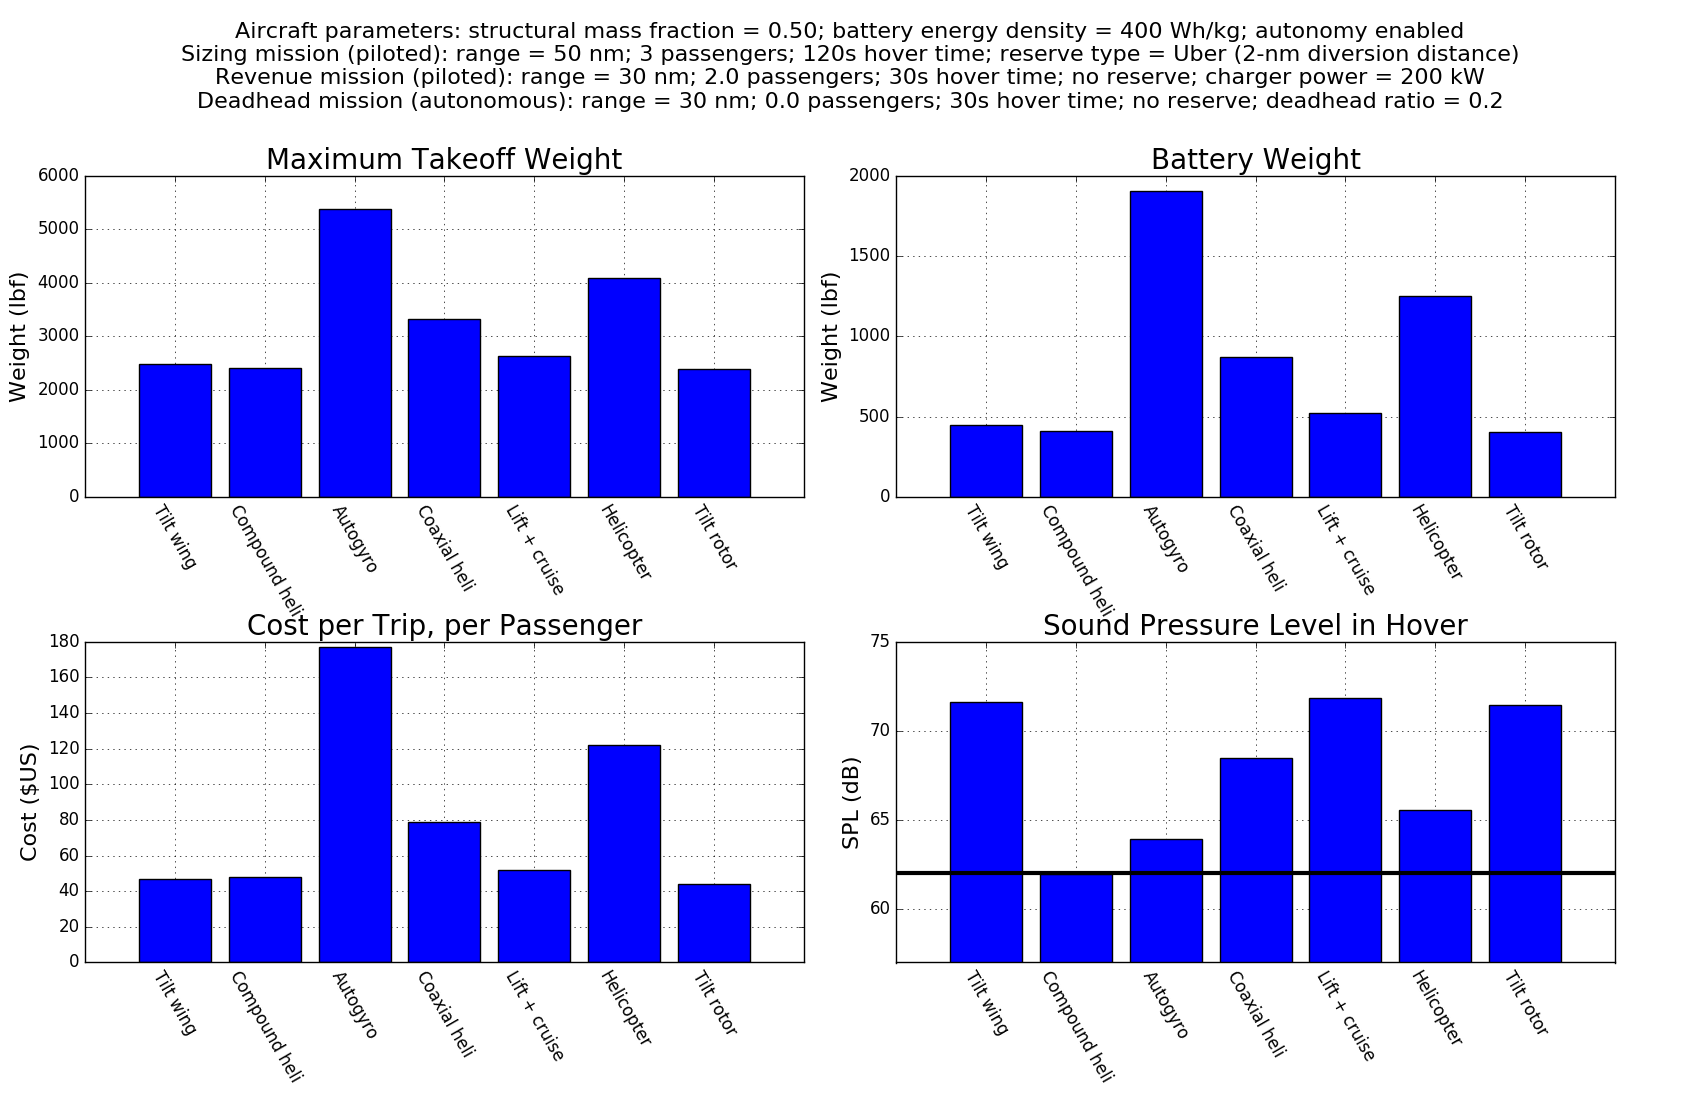
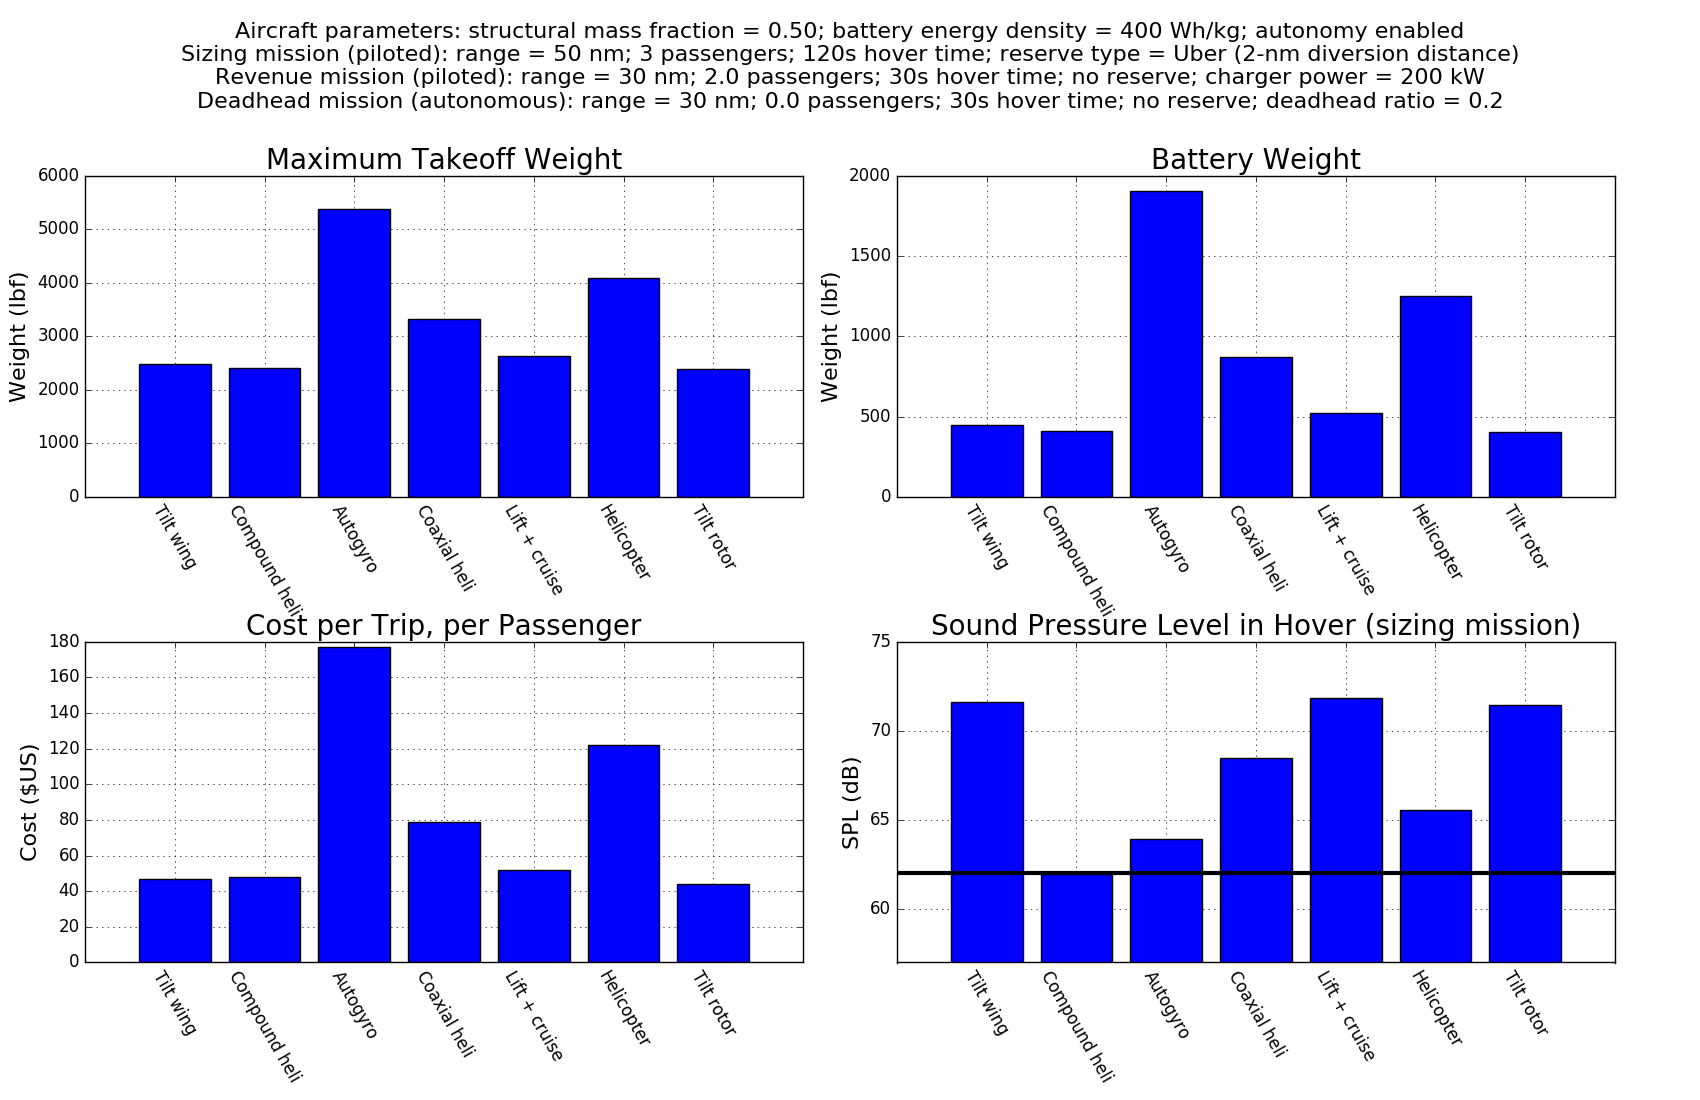
Syntax improvements

diff --git a/config_tradeStudy/config_tradeStudy.py b/config_tradeStudy/config_tradeStudy.py
@@ -110,7 +110,7 @@ for i, config in enumerate(configs):
 #Maximum takeoff weight
 plt.subplot(2,2,1)
 for i, config in enumerate(configs):
-	MTOW = configs[config]["solution"]["variables"]["MTOW_OnDemandAircraft"].to(ureg.lbf).magnitude
+	MTOW = configs[config]["solution"]("MTOW_OnDemandAircraft").to(ureg.lbf).magnitude
 	plt.bar(i,MTOW,align='center',alpha=1)
 plt.grid()
 plt.xticks(y_pos, labels, rotation=-60)
@@ -120,7 +120,7 @@ plt.title("Maximum Takeoff Weight",fontsize = 20)
 #Battery weight
 plt.subplot(2,2,2)
 for i, config in enumerate(configs):
-	W_battery = configs[config]["solution"]["variables"]["W_OnDemandAircraft/Battery"].to(ureg.lbf).magnitude
+	W_battery = configs[config]["solution"]("W_OnDemandAircraft/Battery").to(ureg.lbf).magnitude
 	plt.bar(i,W_battery,align='center',alpha=1)
 plt.grid()
 plt.xticks(y_pos, labels, rotation=-60)
@@ -130,7 +130,7 @@ plt.title("Battery Weight",fontsize = 20)
 #Trip cost per passenger 
 plt.subplot(2,2,3)
 for i, config in enumerate(configs):
-	cptpp = configs[config]["solution"]["variables"]["cost_per_trip_per_passenger_OnDemandMissionCost"]
+	cptpp = configs[config]["solution"]("cost_per_trip_per_passenger_OnDemandMissionCost")
 	plt.bar(i,cptpp,align='center',alpha=1)
 plt.grid()
 plt.xticks(y_pos, labels, rotation=-60)
@@ -140,7 +140,7 @@ plt.title("Cost per Trip, per Passenger",fontsize = 20)
 #Sound pressure level (in hover) 
 plt.subplot(2,2,4)
 for i, config in enumerate(configs):
-	SPL_sizing  = np.array(20*np.log10(configs[config]["solution"]["variables"]["p_{ratio}_OnDemandSizingMission"]))
+	SPL_sizing  = 20*np.log10(configs[config]["solution"]("p_{ratio}_OnDemandSizingMission"))
 	plt.bar(i,SPL_sizing,align='center',alpha=1)
 
 SPL_req = 62
@@ -150,7 +150,7 @@ plt.ylim(ymin = 57, ymax = 75)
 plt.grid()
 plt.xticks(y_pos, labels, rotation=-60)
 plt.ylabel('SPL (dB)', fontsize = 16)
-plt.title("Sound Pressure Level in Hover",fontsize = 20)
+plt.title("Sound Pressure Level in Hover (sizing mission)",fontsize = 20)
 
 
 if reserve_type == "FAA":
